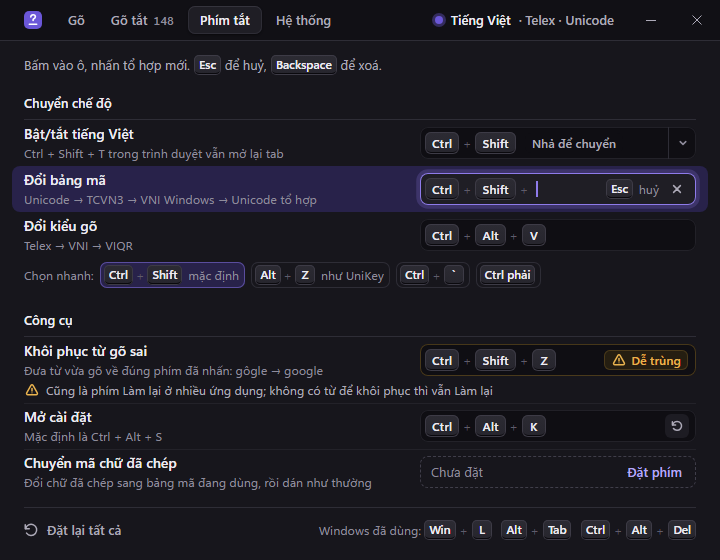
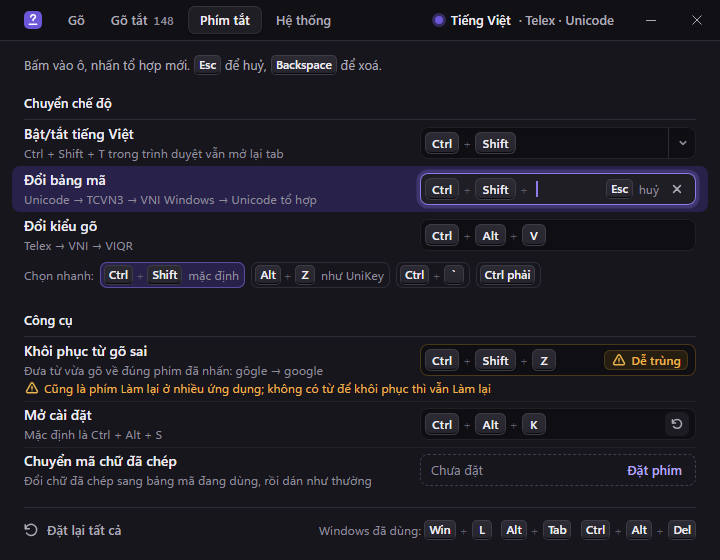
design: round 5 — restore row rhythm, move toggle mode to Nâng cao, conflict row 64px
- go: 8 rows incl. Kiểu đặt dấu; Nâng cao 9 options
- hotkey: no bare 'Nhả để chuyển' select; mode now in Nâng cao
- copy: Kiểu chuyển bật/tắt strings recorded in 27-copy-decisions.md

diff --git a/design/dark/go.html b/design/dark/go.html
@@ -181,9 +181,10 @@ svg.i.s16{width:16px;height:16px;stroke-width:1.875}
 .cap .end .btn.icon.xs{margin-right:-1px}
 .row.rec{background:var(--acc-tint)}
 .row.rec::before,.row.rec+.row::before{opacity:0}
-.row.tall{height:66px;align-items:flex-start;padding-top:4px}
+.row.tall{height:64px;align-items:flex-start;padding-top:4px}
 .row.tall .cap{margin-top:3px}
-.row .msg{position:absolute;left:12px;right:12px;top:44px;display:flex;align-items:center;gap:6px;font:400 12px/18px var(--sm);color:var(--t2);white-space:nowrap}
+.row .msg{position:absolute;left:12px;right:12px;top:42px;display:block;font:400 12px/18px var(--sm);color:var(--warn);white-space:nowrap}
+.row .msg .i{vertical-align:-3px;margin-right:4px}
 .row .msg .i{color:var(--warn)}
 .presets{display:flex;align-items:center;gap:6px;height:34px;padding-left:0;font:400 12px/18px var(--sm);color:var(--t3);flex:none}
 .pre{display:inline-flex;align-items:center;gap:2px;height:26px;padding:0 6px 0 4px;border-radius:7px;box-shadow:inset 0 0 0 1px var(--line-2);color:var(--t2)}
@@ -218,6 +219,6 @@ svg.i.s16{width:16px;height:16px;stroke-width:1.875}
   <small>Bảng mã</small><span class="sel" style="width:164px">Unicode dựng sẵn<svg class="i s16" viewBox="0 0 20 20" aria-hidden="true"><path d="M6.5 8.25 10 11.75l3.5-3.5"/></svg></span></span>
 </div>
 <div class="list" style="margin-top:8px"><div class="row "><div class="lbl"><b>Kiểu đặt dấu</b><span>Hai kiểu chỉ khác nhau ở vần oa, oe, uy</span></div><div class="ctl"><span class="seg tone"><span class="on">Kiểu mới <i>·</i> <em>hoà, thuý</em></span><span>Kiểu cũ <i>·</i> <em>hòa, thúy</em></span></span></div></div><div class="row "><div class="lbl"><b>Gõ dấu ở cuối từ</b><span><span class="kbd">hoangf</span> → hoàng: gõ dấu sau cả từ cũng được</span></div><div class="ctl"><span class="tg on"></span></div></div><div class="row hov"><div class="lbl"><b>Tự sửa ưo thành ươ</b><span><span class="kbd">nguwoif</span> → người, chỉ cần một w</span></div><div class="ctl"><span class="tg on"></span></div></div><div class="row gb"><div class="lbl"><b>Kiểm tra chính tả</b><span>Chỉ thêm dấu khi ra từ tiếng Việt: search vẫn là search</span></div><div class="ctl"><span class="tg"></span></div></div><div class="row dis"><div class="lbl"><b>Tự động khôi phục từ gõ sai</b><span>Cần bật Kiểm tra chính tả · <span class="lnk">Bật</span></span></div><div class="ctl"><span class="tg dis" aria-disabled="true"></span></div></div><div class="row "><div class="lbl"><b>Giữ nguyên email, địa chỉ web</b><span>ten@congty.vn, abc.com/xyz gõ sao ra vậy, không thêm dấu</span></div><div class="ctl"><span class="tg on"></span></div></div><div class="row "><div class="lbl"><b>Viết hoa đầu câu</b><span>chào. tôi → chào. Tôi, cả sau ! ? và khi xuống dòng</span></div><div class="ctl"><span class="tg"></span></div></div><div class="row gb"><div class="lbl"><b>Gõ tắt</b><span>Gõ <span class="kbd">nth</span> rồi dấu cách → Nguyễn Thu Hà</span></div><div class="ctl"><span class="link" title="Mở tab Gõ tắt">148 mục<svg class="i s16" viewBox="0 0 20 20" aria-hidden="true"><path d="M8.25 6.5 11.75 10l-3.5 3.5"/></svg></span><span class="tg on"></span></div></div></div>
-<div class="disc"><svg class="i " viewBox="0 0 20 20" aria-hidden="true"><path d="M8.25 6.5 11.75 10l-3.5 3.5"/></svg><b>Nâng cao</b><span class="tag n"><span class="num">8</span>&nbsp;tuỳ chọn</span><span class="m">f j w z làm phụ âm, sửa lỗi dấu gợi ý, Metro, Clipboard</span></div>
+<div class="disc"><svg class="i " viewBox="0 0 20 20" aria-hidden="true"><path d="M8.25 6.5 11.75 10l-3.5 3.5"/></svg><b>Nâng cao</b><span class="tag n"><span class="num">9</span>&nbsp;tuỳ chọn</span><span class="m">f j w z làm phụ âm, sửa lỗi dấu gợi ý, Metro, Clipboard</span></div>
 <div class="try"><span class="lab">Thử gõ</span><span class="out">Nguyễn Thu Hà ở Đường Nguyễn Văn Linh, Quận 7<span class="caret"></span></span><span class="m">Telex · Unicode</span></div>
 </main></div></body></html>

diff --git a/design/light/go.html b/design/light/go.html
@@ -181,9 +181,10 @@ svg.i.s16{width:16px;height:16px;stroke-width:1.875}
 .cap .end .btn.icon.xs{margin-right:-1px}
 .row.rec{background:var(--acc-tint)}
 .row.rec::before,.row.rec+.row::before{opacity:0}
-.row.tall{height:66px;align-items:flex-start;padding-top:4px}
+.row.tall{height:64px;align-items:flex-start;padding-top:4px}
 .row.tall .cap{margin-top:3px}
-.row .msg{position:absolute;left:12px;right:12px;top:44px;display:flex;align-items:center;gap:6px;font:400 12px/18px var(--sm);color:var(--t2);white-space:nowrap}
+.row .msg{position:absolute;left:12px;right:12px;top:42px;display:block;font:400 12px/18px var(--sm);color:var(--warn);white-space:nowrap}
+.row .msg .i{vertical-align:-3px;margin-right:4px}
 .row .msg .i{color:var(--warn)}
 .presets{display:flex;align-items:center;gap:6px;height:34px;padding-left:0;font:400 12px/18px var(--sm);color:var(--t3);flex:none}
 .pre{display:inline-flex;align-items:center;gap:2px;height:26px;padding:0 6px 0 4px;border-radius:7px;box-shadow:inset 0 0 0 1px var(--line-2);color:var(--t2)}
@@ -218,6 +219,6 @@ svg.i.s16{width:16px;height:16px;stroke-width:1.875}
   <small>Bảng mã</small><span class="sel" style="width:164px">Unicode dựng sẵn<svg class="i s16" viewBox="0 0 20 20" aria-hidden="true"><path d="M6.5 8.25 10 11.75l3.5-3.5"/></svg></span></span>
 </div>
 <div class="list" style="margin-top:8px"><div class="row "><div class="lbl"><b>Kiểu đặt dấu</b><span>Hai kiểu chỉ khác nhau ở vần oa, oe, uy</span></div><div class="ctl"><span class="seg tone"><span class="on">Kiểu mới <i>·</i> <em>hoà, thuý</em></span><span>Kiểu cũ <i>·</i> <em>hòa, thúy</em></span></span></div></div><div class="row "><div class="lbl"><b>Gõ dấu ở cuối từ</b><span><span class="kbd">hoangf</span> → hoàng: gõ dấu sau cả từ cũng được</span></div><div class="ctl"><span class="tg on"></span></div></div><div class="row hov"><div class="lbl"><b>Tự sửa ưo thành ươ</b><span><span class="kbd">nguwoif</span> → người, chỉ cần một w</span></div><div class="ctl"><span class="tg on"></span></div></div><div class="row gb"><div class="lbl"><b>Kiểm tra chính tả</b><span>Chỉ thêm dấu khi ra từ tiếng Việt: search vẫn là search</span></div><div class="ctl"><span class="tg"></span></div></div><div class="row dis"><div class="lbl"><b>Tự động khôi phục từ gõ sai</b><span>Cần bật Kiểm tra chính tả · <span class="lnk">Bật</span></span></div><div class="ctl"><span class="tg dis" aria-disabled="true"></span></div></div><div class="row "><div class="lbl"><b>Giữ nguyên email, địa chỉ web</b><span>ten@congty.vn, abc.com/xyz gõ sao ra vậy, không thêm dấu</span></div><div class="ctl"><span class="tg on"></span></div></div><div class="row "><div class="lbl"><b>Viết hoa đầu câu</b><span>chào. tôi → chào. Tôi, cả sau ! ? và khi xuống dòng</span></div><div class="ctl"><span class="tg"></span></div></div><div class="row gb"><div class="lbl"><b>Gõ tắt</b><span>Gõ <span class="kbd">nth</span> rồi dấu cách → Nguyễn Thu Hà</span></div><div class="ctl"><span class="link" title="Mở tab Gõ tắt">148 mục<svg class="i s16" viewBox="0 0 20 20" aria-hidden="true"><path d="M8.25 6.5 11.75 10l-3.5 3.5"/></svg></span><span class="tg on"></span></div></div></div>
-<div class="disc"><svg class="i " viewBox="0 0 20 20" aria-hidden="true"><path d="M8.25 6.5 11.75 10l-3.5 3.5"/></svg><b>Nâng cao</b><span class="tag n"><span class="num">8</span>&nbsp;tuỳ chọn</span><span class="m">f j w z làm phụ âm, sửa lỗi dấu gợi ý, Metro, Clipboard</span></div>
+<div class="disc"><svg class="i " viewBox="0 0 20 20" aria-hidden="true"><path d="M8.25 6.5 11.75 10l-3.5 3.5"/></svg><b>Nâng cao</b><span class="tag n"><span class="num">9</span>&nbsp;tuỳ chọn</span><span class="m">f j w z làm phụ âm, sửa lỗi dấu gợi ý, Metro, Clipboard</span></div>
 <div class="try"><span class="lab">Thử gõ</span><span class="out">Nguyễn Thu Hà ở Đường Nguyễn Văn Linh, Quận 7<span class="caret"></span></span><span class="m">Telex · Unicode</span></div>
 </main></div></body></html>

diff --git a/design/dark/hotkey.html b/design/dark/hotkey.html
@@ -181,9 +181,10 @@ svg.i.s16{width:16px;height:16px;stroke-width:1.875}
 .cap .end .btn.icon.xs{margin-right:-1px}
 .row.rec{background:var(--acc-tint)}
 .row.rec::before,.row.rec+.row::before{opacity:0}
-.row.tall{height:66px;align-items:flex-start;padding-top:4px}
+.row.tall{height:64px;align-items:flex-start;padding-top:4px}
 .row.tall .cap{margin-top:3px}
-.row .msg{position:absolute;left:12px;right:12px;top:44px;display:flex;align-items:center;gap:6px;font:400 12px/18px var(--sm);color:var(--t2);white-space:nowrap}
+.row .msg{position:absolute;left:12px;right:12px;top:42px;display:block;font:400 12px/18px var(--sm);color:var(--warn);white-space:nowrap}
+.row .msg .i{vertical-align:-3px;margin-right:4px}
 .row .msg .i{color:var(--warn)}
 .presets{display:flex;align-items:center;gap:6px;height:34px;padding-left:0;font:400 12px/18px var(--sm);color:var(--t3);flex:none}
 .pre{display:inline-flex;align-items:center;gap:2px;height:26px;padding:0 6px 0 4px;border-radius:7px;box-shadow:inset 0 0 0 1px var(--line-2);color:var(--t2)}
@@ -214,7 +215,7 @@ svg.i.s16{width:16px;height:16px;stroke-width:1.875}
 <div class="intro">Bấm vào ô, nhấn tổ hợp mới. <span class="k sm">Esc</span> để huỷ, <span class="k sm">Backspace</span> để xoá.</div>
 <div class="sh">Chuyển chế độ</div>
 <div class="list">
-<div class="row "><div class="lbl"><b>Bật/tắt tiếng Việt</b><span>Ctrl + Shift + T trong trình duyệt vẫn mở lại tab</span></div><div class="ctl"><div class="cap"><span class="k ">Ctrl</span><span class="plus">+</span><span class="k ">Shift</span><span class="tag n" style="margin-left:6px">Nhả để chuyển</span><span class="split" title="Chọn nhanh"><svg class="i s16" viewBox="0 0 20 20" aria-hidden="true"><path d="M6.5 8.25 10 11.75l3.5-3.5"/></svg></span></div></div></div>
+<div class="row "><div class="lbl"><b>Bật/tắt tiếng Việt</b><span>Ctrl + Shift + T trong trình duyệt vẫn mở lại tab</span></div><div class="ctl"><div class="cap"><span class="k ">Ctrl</span><span class="plus">+</span><span class="k ">Shift</span><span class="split" title="Chọn nhanh"><svg class="i s16" viewBox="0 0 20 20" aria-hidden="true"><path d="M6.5 8.25 10 11.75l3.5-3.5"/></svg></span></div></div></div>
 <div class="row rec"><div class="lbl"><b>Đổi bảng mã</b><span>Unicode → TCVN3 → VNI Windows → Unicode tổ hợp</span></div><div class="ctl"><div class="cap rec"><span class="k ">Ctrl</span><span class="plus">+</span><span class="k ">Shift</span><span class="plus">+</span><span class="caret"></span><span class="end"><span class="k sm">Esc</span>huỷ<span class="btn ghost icon xs" title="Huỷ"><svg class="i s16" viewBox="0 0 20 20" aria-hidden="true"><path d="M5.75 5.75l8.5 8.5M14.25 5.75l-8.5 8.5"/></svg></span></span></div></div></div>
 <div class="row "><div class="lbl"><b>Đổi kiểu gõ</b><span>Telex → VNI → VIQR</span></div><div class="ctl"><div class="cap"><span class="k ">Ctrl</span><span class="plus">+</span><span class="k ">Alt</span><span class="plus">+</span><span class="k ">V</span></div></div></div>
 </div>

diff --git a/design/light/hotkey.html b/design/light/hotkey.html
@@ -181,9 +181,10 @@ svg.i.s16{width:16px;height:16px;stroke-width:1.875}
 .cap .end .btn.icon.xs{margin-right:-1px}
 .row.rec{background:var(--acc-tint)}
 .row.rec::before,.row.rec+.row::before{opacity:0}
-.row.tall{height:66px;align-items:flex-start;padding-top:4px}
+.row.tall{height:64px;align-items:flex-start;padding-top:4px}
 .row.tall .cap{margin-top:3px}
-.row .msg{position:absolute;left:12px;right:12px;top:44px;display:flex;align-items:center;gap:6px;font:400 12px/18px var(--sm);color:var(--t2);white-space:nowrap}
+.row .msg{position:absolute;left:12px;right:12px;top:42px;display:block;font:400 12px/18px var(--sm);color:var(--warn);white-space:nowrap}
+.row .msg .i{vertical-align:-3px;margin-right:4px}
 .row .msg .i{color:var(--warn)}
 .presets{display:flex;align-items:center;gap:6px;height:34px;padding-left:0;font:400 12px/18px var(--sm);color:var(--t3);flex:none}
 .pre{display:inline-flex;align-items:center;gap:2px;height:26px;padding:0 6px 0 4px;border-radius:7px;box-shadow:inset 0 0 0 1px var(--line-2);color:var(--t2)}
@@ -214,7 +215,7 @@ svg.i.s16{width:16px;height:16px;stroke-width:1.875}
 <div class="intro">Bấm vào ô, nhấn tổ hợp mới. <span class="k sm">Esc</span> để huỷ, <span class="k sm">Backspace</span> để xoá.</div>
 <div class="sh">Chuyển chế độ</div>
 <div class="list">
-<div class="row "><div class="lbl"><b>Bật/tắt tiếng Việt</b><span>Ctrl + Shift + T trong trình duyệt vẫn mở lại tab</span></div><div class="ctl"><div class="cap"><span class="k ">Ctrl</span><span class="plus">+</span><span class="k ">Shift</span><span class="tag n" style="margin-left:6px">Nhả để chuyển</span><span class="split" title="Chọn nhanh"><svg class="i s16" viewBox="0 0 20 20" aria-hidden="true"><path d="M6.5 8.25 10 11.75l3.5-3.5"/></svg></span></div></div></div>
+<div class="row "><div class="lbl"><b>Bật/tắt tiếng Việt</b><span>Ctrl + Shift + T trong trình duyệt vẫn mở lại tab</span></div><div class="ctl"><div class="cap"><span class="k ">Ctrl</span><span class="plus">+</span><span class="k ">Shift</span><span class="split" title="Chọn nhanh"><svg class="i s16" viewBox="0 0 20 20" aria-hidden="true"><path d="M6.5 8.25 10 11.75l3.5-3.5"/></svg></span></div></div></div>
 <div class="row rec"><div class="lbl"><b>Đổi bảng mã</b><span>Unicode → TCVN3 → VNI Windows → Unicode tổ hợp</span></div><div class="ctl"><div class="cap rec"><span class="k ">Ctrl</span><span class="plus">+</span><span class="k ">Shift</span><span class="plus">+</span><span class="caret"></span><span class="end"><span class="k sm">Esc</span>huỷ<span class="btn ghost icon xs" title="Huỷ"><svg class="i s16" viewBox="0 0 20 20" aria-hidden="true"><path d="M5.75 5.75l8.5 8.5M14.25 5.75l-8.5 8.5"/></svg></span></span></div></div></div>
 <div class="row "><div class="lbl"><b>Đổi kiểu gõ</b><span>Telex → VNI → VIQR</span></div><div class="ctl"><div class="cap"><span class="k ">Ctrl</span><span class="plus">+</span><span class="k ">Alt</span><span class="plus">+</span><span class="k ">V</span></div></div></div>
 </div>

diff --git a/design/dark/macro.html b/design/dark/macro.html
@@ -181,9 +181,10 @@ svg.i.s16{width:16px;height:16px;stroke-width:1.875}
 .cap .end .btn.icon.xs{margin-right:-1px}
 .row.rec{background:var(--acc-tint)}
 .row.rec::before,.row.rec+.row::before{opacity:0}
-.row.tall{height:66px;align-items:flex-start;padding-top:4px}
+.row.tall{height:64px;align-items:flex-start;padding-top:4px}
 .row.tall .cap{margin-top:3px}
-.row .msg{position:absolute;left:12px;right:12px;top:44px;display:flex;align-items:center;gap:6px;font:400 12px/18px var(--sm);color:var(--t2);white-space:nowrap}
+.row .msg{position:absolute;left:12px;right:12px;top:42px;display:block;font:400 12px/18px var(--sm);color:var(--warn);white-space:nowrap}
+.row .msg .i{vertical-align:-3px;margin-right:4px}
 .row .msg .i{color:var(--warn)}
 .presets{display:flex;align-items:center;gap:6px;height:34px;padding-left:0;font:400 12px/18px var(--sm);color:var(--t3);flex:none}
 .pre{display:inline-flex;align-items:center;gap:2px;height:26px;padding:0 6px 0 4px;border-radius:7px;box-shadow:inset 0 0 0 1px var(--line-2);color:var(--t2)}

diff --git a/design/dark/system.html b/design/dark/system.html
@@ -181,9 +181,10 @@ svg.i.s16{width:16px;height:16px;stroke-width:1.875}
 .cap .end .btn.icon.xs{margin-right:-1px}
 .row.rec{background:var(--acc-tint)}
 .row.rec::before,.row.rec+.row::before{opacity:0}
-.row.tall{height:66px;align-items:flex-start;padding-top:4px}
+.row.tall{height:64px;align-items:flex-start;padding-top:4px}
 .row.tall .cap{margin-top:3px}
-.row .msg{position:absolute;left:12px;right:12px;top:44px;display:flex;align-items:center;gap:6px;font:400 12px/18px var(--sm);color:var(--t2);white-space:nowrap}
+.row .msg{position:absolute;left:12px;right:12px;top:42px;display:block;font:400 12px/18px var(--sm);color:var(--warn);white-space:nowrap}
+.row .msg .i{vertical-align:-3px;margin-right:4px}
 .row .msg .i{color:var(--warn)}
 .presets{display:flex;align-items:center;gap:6px;height:34px;padding-left:0;font:400 12px/18px var(--sm);color:var(--t3);flex:none}
 .pre{display:inline-flex;align-items:center;gap:2px;height:26px;padding:0 6px 0 4px;border-radius:7px;box-shadow:inset 0 0 0 1px var(--line-2);color:var(--t2)}

diff --git a/design/light/macro.html b/design/light/macro.html
@@ -181,9 +181,10 @@ svg.i.s16{width:16px;height:16px;stroke-width:1.875}
 .cap .end .btn.icon.xs{margin-right:-1px}
 .row.rec{background:var(--acc-tint)}
 .row.rec::before,.row.rec+.row::before{opacity:0}
-.row.tall{height:66px;align-items:flex-start;padding-top:4px}
+.row.tall{height:64px;align-items:flex-start;padding-top:4px}
 .row.tall .cap{margin-top:3px}
-.row .msg{position:absolute;left:12px;right:12px;top:44px;display:flex;align-items:center;gap:6px;font:400 12px/18px var(--sm);color:var(--t2);white-space:nowrap}
+.row .msg{position:absolute;left:12px;right:12px;top:42px;display:block;font:400 12px/18px var(--sm);color:var(--warn);white-space:nowrap}
+.row .msg .i{vertical-align:-3px;margin-right:4px}
 .row .msg .i{color:var(--warn)}
 .presets{display:flex;align-items:center;gap:6px;height:34px;padding-left:0;font:400 12px/18px var(--sm);color:var(--t3);flex:none}
 .pre{display:inline-flex;align-items:center;gap:2px;height:26px;padding:0 6px 0 4px;border-radius:7px;box-shadow:inset 0 0 0 1px var(--line-2);color:var(--t2)}

diff --git a/design/light/system.html b/design/light/system.html
@@ -181,9 +181,10 @@ svg.i.s16{width:16px;height:16px;stroke-width:1.875}
 .cap .end .btn.icon.xs{margin-right:-1px}
 .row.rec{background:var(--acc-tint)}
 .row.rec::before,.row.rec+.row::before{opacity:0}
-.row.tall{height:66px;align-items:flex-start;padding-top:4px}
+.row.tall{height:64px;align-items:flex-start;padding-top:4px}
 .row.tall .cap{margin-top:3px}
-.row .msg{position:absolute;left:12px;right:12px;top:44px;display:flex;align-items:center;gap:6px;font:400 12px/18px var(--sm);color:var(--t2);white-space:nowrap}
+.row .msg{position:absolute;left:12px;right:12px;top:42px;display:block;font:400 12px/18px var(--sm);color:var(--warn);white-space:nowrap}
+.row .msg .i{vertical-align:-3px;margin-right:4px}
 .row .msg .i{color:var(--warn)}
 .presets{display:flex;align-items:center;gap:6px;height:34px;padding-left:0;font:400 12px/18px var(--sm);color:var(--t3);flex:none}
 .pre{display:inline-flex;align-items:center;gap:2px;height:26px;padding:0 6px 0 4px;border-radius:7px;box-shadow:inset 0 0 0 1px var(--line-2);color:var(--t2)}

diff --git a/design/_src/build.py b/design/_src/build.py
@@ -170,9 +170,10 @@ svg.i.s16{width:16px;height:16px;stroke-width:1.875}
 .cap .end .btn.icon.xs{margin-right:-1px}
 .row.rec{background:var(--acc-tint)}
 .row.rec::before,.row.rec+.row::before{opacity:0}
-.row.tall{height:66px;align-items:flex-start;padding-top:4px}
+.row.tall{height:64px;align-items:flex-start;padding-top:4px}
 .row.tall .cap{margin-top:3px}
-.row .msg{position:absolute;left:12px;right:12px;top:44px;display:flex;align-items:center;gap:6px;font:400 12px/18px var(--sm);color:var(--t2);white-space:nowrap}
+.row .msg{position:absolute;left:12px;right:12px;top:42px;display:block;font:400 12px/18px var(--sm);color:var(--warn);white-space:nowrap}
+.row .msg .i{vertical-align:-3px;margin-right:4px}
 .row .msg .i{color:var(--warn)}
 .presets{display:flex;align-items:center;gap:6px;height:34px;padding-left:0;font:400 12px/18px var(--sm);color:var(--t3);flex:none}
 .pre{display:inline-flex;align-items:center;gap:2px;height:26px;padding:0 6px 0 4px;border-radius:7px;box-shadow:inset 0 0 0 1px var(--line-2);color:var(--t2)}
@@ -258,7 +259,7 @@ def go():
   <small>Bảng mã</small><span class="sel" style="width:164px">Unicode dựng sẵn{ic('chev','s16')}</span></span>
 </div>
 <div class="list" style="margin-top:8px">{''.join(rows)}</div>
-<div class="disc">{ic('chevr')}<b>Nâng cao</b><span class="tag n"><span class="num">8</span>&nbsp;tuỳ chọn</span><span class="m">f j w z làm phụ âm, sửa lỗi dấu gợi ý, Metro, Clipboard</span></div>
+<div class="disc">{ic('chevr')}<b>Nâng cao</b><span class="tag n"><span class="num">9</span>&nbsp;tuỳ chọn</span><span class="m">f j w z làm phụ âm, sửa lỗi dấu gợi ý, Metro, Clipboard</span></div>
 <div class="try"><span class="lab">Thử gõ</span><span class="out">Nguyễn Thu Hà ở Đường Nguyễn Văn Linh, Quận 7<span class="caret"></span></span><span class="m">Telex · Unicode</span></div>'''
 
 # ---------------------------------------------------------------- tab Gõ tắt
@@ -298,7 +299,7 @@ def hk(label, note, field, cls='', msg=''):
 
 def hotkey():
     # Every action (✕ cancel, ↺ reset, preset ▾) lives inside the well, so all wells end on x = 696.
-    f_toggle = f'<div class="cap">{k("Ctrl","Shift")}<span class="tag n" style="margin-left:6px">Nhả để chuyển</span><span class="split" title="Chọn nhanh">{ic("chev","s16")}</span></div>'
+    f_toggle = f'<div class="cap">{k("Ctrl","Shift")}<span class="split" title="Chọn nhanh">{ic("chev","s16")}</span></div>'
     f_rec = (f'<div class="cap rec">{k("Ctrl","Shift")}<span class="plus">+</span><span class="caret"></span>'
              f'<span class="end"><span class="k sm">Esc</span>huỷ<span class="btn ghost icon xs" title="Huỷ">{ic("x","s16")}</span></span></div>')
     f_method = f'<div class="cap">{k("Ctrl","Alt","V")}</div>'

diff --git a/design/DESIGN-SPEC.md b/design/DESIGN-SPEC.md
@@ -70,7 +70,7 @@ y: 0  ┌ strip 40: mark · tabs (Gõ · Gõ tắt · Phím tắt · Hệ thốn
 | 41 | 40 | status row (on/off · `Ctrl` `Shift` · Kiểu gõ · Bảng mã) |
 | 81 | 8 | gap |
 | 89 | 368 | 8 setting rows × 46 |
-| 457 | 40 | `Nâng cao · 8 tuỳ chọn` disclosure (collapsed) |
+| 457 | 40 | `Nâng cao · 9 tuỳ chọn` disclosure (collapsed) |
 | 497 | 11 | flexible gap (`margin-top: auto` on the strip) |
 | 508 | 36 | Thử gõ strip |
 | 544 | 16 | bottom padding |
@@ -79,20 +79,34 @@ y: 0  ┌ strip 40: mark · tabs (Gõ · Gõ tắt · Phím tắt · Hệ thốn
 **Gõ tắt (`macro.html`)**: 40 strip + 1 + 16 + 36 toolbar + 12 + table (1 + 36 bulk/header + 8 × 46 + 1 =
 406) + 10 + 18 footnote = **540**, 20 px spare at the bottom. 8 rows, never a partial row.
 
-**Phím tắt (`hotkey.html`)**: 40 + 1 + 14 + 20 intro + 39 group head + 3 × 46 rows + 34 presets + 39 group
-head + 66 (row with conflict line) + 2 × 46 = **483**; footer (41) is pinned to the bottom: 503–544, + 16
-padding = **560**. 20 px of air above the footer.
+**Phím tắt (`hotkey.html`)**: 40 + 1 + 14 + 20 intro + 45 group head + 3 × 46 rows + 34 presets + 45 group
+head + 64 (row with warning line) + 2 × 46 = **493**; 14 gap; footer (37) 507–544; 16 padding = **560**.
+(Round 4 moved the old 20 px of air above the footer into the two group heads, padding 18/6.)
 
-**Hệ thống (`system.html`)**: 40 + 1 + 12 + Khởi động 2 × 46 + 12 + Giao diện 3 × 46 + 12 + Cập nhật 2 × 46
-+ 12 + Loại trừ 3 × 40 = **531**, ≈ 29 px spare.
+**Hệ thống (`system.html`)**: 40 + 1 + 16 + Khởi động 2 × 46 + 14 + Giao diện 3 × 46 + 14 + Cập nhật 2 × 46
++ 14 + Loại trừ 3 × 40 = **545**; 15 bottom, matching Gõ's 16.
 
-Measured on the 720 × 560 renders (last non-background pixel): Gõ 546 (the Thử gõ field is 508–543, its
-3 px focus halo reaches 546), Gõ tắt 537, Phím tắt 539, Hệ thống 526. No tab scrolls; no row is cut.
+Measured with `_src/measure.py` (injects a script into a copy of each screen, reads `getBoundingClientRect`
+through headless Edge `--dump-dom`; light and dark identical): last element bottom Gõ 544 · Gõ tắt 539 ·
+Phím tắt 544 · Hệ thống 545. Zero text overflow (no ellipsis, no wrap) in all 8 files. No tab scrolls.
+
+**Alignment rules (round 4, verified by `measure.py`):**
+- **One right edge, x = 696**, for every control on every tab: toggles (660–696), selects, segmented,
+  buttons, capture wells, toolbar, table frame. A row with two controls puts the secondary one on the left
+  (`Kiểm tra ngay` before the toggle) so the toggle stays on the axis.
+- **No slot column.** Capture-row actions (✕ huỷ, ↺ đặt lại mặc định, ▾ chọn nhanh) live inside the well as
+  24 px icon buttons; wells are 276 wide (420–696).
+- Rows without a control leave the axis empty: the Nâng cao preview stops 64 px short of 696.
+- Label + description are centred as one block in each 46 px row (measured offset 0.0 on every row).
+- The strip state chip has a fixed 236 px slot on every tab (hidden on Gõ), so tabs never move:
+  x = 56 / 98.8 / 187.8 / 263.7 on all four tabs.
+- The table header (`Từ tắt · Nội dung`) and the bulk bar that replaces it are both 36 px (measured
+  106–142), so selecting a row never moves the rows.
 
 ### 1.2 Horizontal
 
-Tab Gõ rows: label column flexible, control column right-aligned at x = 696. Phím tắt: label · 236 px capture
-well · 28 px slot. Gõ tắt table: 40 checkbox · 112 trigger · flexible expansion · 68 actions. Hệ thống:
+Tab Gõ rows: label column flexible, control column right-aligned at x = 696. Phím tắt: label · 276 px capture
+well (actions inside). Gõ tắt table: 40 checkbox · 112 trigger · flexible expansion · 68 actions. Hệ thống:
 **hanging section labels** 120 + 16 gutter + 536 rows — headings cost no height.
 
 ## 2. Type (720 × 560 ramp — fewer sizes than v2)
@@ -325,11 +339,12 @@ example 15/20 Sitka (t2; t1 selected). Track 32 h, pills 28 h. The *name* is wha
 is the proof. Default selected: Kiểu mới.
 
 **Disclosure** (Nâng cao) — 40 h row with `line-2` top: chevron-right 20, `Nâng cao` 14/500, neutral count
-tag `8 tuỳ chọn`, a 12 t3 preview of what is inside. Because the panel cannot grow, opening it **replaces
+tag `9 tuỳ chọn`, a 12 t3 preview of what is inside. Because the panel cannot grow, opening it **replaces
 the 8 rows in place** with the advanced rows (same 46 rhythm, `‹ Tuỳ chọn chính` back row at the top);
 the status row and Thử gõ strip stay. Contents: f j w z làm phụ âm · gõ tắt khi tắt tiếng Việt · giữ
 hoa/thường theo từ tắt · tắt khi bàn phím không phải US · sửa lỗi dấu khi có gợi ý · hỗ trợ ứng dụng Metro ·
-gửi qua Clipboard · độ trễ giữa các phím = 8.
+gửi qua Clipboard · độ trễ giữa các phím (`0` µs) · **Kiểu chuyển bật/tắt** (segmented `Khi nhả phím` /
+`Khi nhấn phím`, default nhả — moved here in round 5 from the hotkey well) = 9.
 
 **Thử gõ strip** — 36 h, radius 8, one line: `Thử gõ` 12/500 t3 + 1 px divider · Sitka 16/24 output with
 caret · `Telex · Unicode` 12 t3 (echo of the current method/charset, so the strip proves them). Unfocused:
@@ -344,12 +359,19 @@ ever covered. Rows 46: checkbox · trigger keycap (mono) · expansion 14/20 (mul
 hover actions (raised 2 px to sit on the trigger legend's optical centre). Selected: `acc-tint` + 2 px
 `rail`. Footnote 12/18: `Đang hiện 8 trong 148 mục · gõ vào ô tìm để lọc` + `Mở bảng gõ tắt ›` (separate window).
 
-**Capture well** (Phím tắt) — 236 × 32, `sunken` well, 22 px keycaps, states as v2: capturing (raised,
-pulsing `focus` halo, held keys + `+` + caret, `Esc huỷ`, row tinted, ✕ in the slot, strip chip stays),
-warning (`warn-line` + `Trùng` tag, explanation as a third line in the row → 66 h), modified (reset icon in
-the 28 px slot), empty (dashed `line-3`, `Chưa đặt` / `Đặt phím`), split preset chevron + `Nhả để chuyển`
-tag. **Preset chips** (34 h line): `Mẫu cho Bật/tắt:` + four outlined chips with small keycaps —
-`Ctrl+Shift mặc định` (selected: tint + `acc-line`), `Alt+Z như UniKey`, ``Ctrl+` ``, `Right Ctrl`.
+**Capture well** (Phím tắt) — 276 × 32 (x 420–696), `sunken` well, 22 px keycaps. Every action lives
+inside the well as a 24 px icon button. States: capturing (raised, pulsing `focus` halo, held keys + `+` +
+caret, `Esc huỷ` + ✕ `Huỷ`, row tinted); warning (`warn-line` + `Dễ trùng` tag — `Trùng` is reserved for
+blocking conflicts); modified (↺ `Đặt lại mặc định`); empty (dashed `line-3`, `Chưa đặt` / `Đặt phím`);
+split `Chọn nhanh` chevron on the toggle row. Round 5: the bare `Nhả để chuyển` tag is gone from the well;
+release-vs-press is the labelled option `Kiểu chuyển bật/tắt` (`Khi nhả phím` / `Khi nhấn phím`) in
+Nâng cao on tab Gõ.
+**Warning row** (`Khôi phục từ gõ sai`) — 64 h = 4 + 20 label + 18 description + 18 warning + 4. The warning
+is amber 12/18 with ⚠ inline before the text, starting on the label edge. It runs full width (to 696)
+because the verbatim COPY.md string (79 characters ≈ 470 px) does not fit the 380 px description column.
+The extra 18 px is the only exception to the 46 rhythm on the tab; the gap above the footer took it (14 px).
+**Preset chips** (34 h): `Chọn nhanh:` + `Ctrl+Shift mặc định` (selected: tint + `acc-line`),
+`Alt+Z như UniKey`, ``Ctrl+` ``, `Ctrl phải`.
 
 **Hanging section** (Hệ thống) — 120 px label column: 13/600 t1 aligned to the first row's label line,
 optional 12 t3 sub-line and a 12/500 accent link (`6 ứng dụng · Quản lý ›`). Both columns start with the
@@ -428,7 +450,7 @@ Earlier wording decisions still in force:
 
 | Was | Now | Why |
 |---|---|---|
-| `nhấn–nhả` | `Nhả để chuyển` | natural; the chord fires on release |
+| `nhấn–nhả` → `Nhả để chuyển` (tag in the well) | option `Kiểu chuyển bật/tắt`: `Khi nhả phím` / `Khi nhấn phím` in Nâng cao (round 5) | a two-word tag beside keycaps was unreadable out of context; a labelled option says what it controls |
 | `Trả lại đúng các phím đã gõ cho từ vừa xong` | `Đưa từ vừa gõ về đúng các phím đã bấm` | sentence, not calque |
 | bare `hòa, thúy` / `hoà, thuý` | `Kiểu cũ · hòa, thúy` / `Kiểu mới · hoà, thuý` | named choices |
 | `Âm thanh và giao diện` (section) | `Giao diện` | fits the 120 px label column on one line |

diff --git a/docs/evkey-clone-work/27-copy-decisions.md b/docs/evkey-clone-work/27-copy-decisions.md
@@ -46,6 +46,22 @@ state is about Vietnamese input, not about the user's language. Tray icon stays 
 - Macro import/export is TSV per C8; `import_macros` returns the row count, never a partial import.
 - Tray tooltip: `VietKB — đang gõ tiếng Việt` / `VietKB — đã tắt tiếng Việt`.
 
+### D.1 Copy that COPY.md does not cover (written by the Lead)
+
+The toggle mode moved out of the `Phím tắt` row into `Nâng cao` on `Gõ` (round 5, option b):
+
+| Vị trí | Chuỗi | Dài |
+|---|---|---|
+| label | `Kiểu chuyển bật/tắt` | 19 |
+| option (default) | `Khi nhả phím` | 12 |
+| option | `Khi nhấn phím` | 12 |
+| description | `Nhả phím mới chuyển, hoặc đổi ngay khi nhấn.` | 45 |
+
+It maps to `hotkeys.toggle_mode = "release" | "press"` — a new field, default `release`.
+The reason it is in `Nâng cao`: a bare `Nhả để chuyển` dropdown next to keycaps was unreadable,
+and removing it from the shortcut row keeps that row at 46 px.
+
+
 ## E. Copy rules the deck got right, keep enforcing
 
 Label ≤ 30 chars · description ≤ 64 · button ≤ 16 · tab ≤ 12 · toast ≤ 72 · error ≤ 110.
